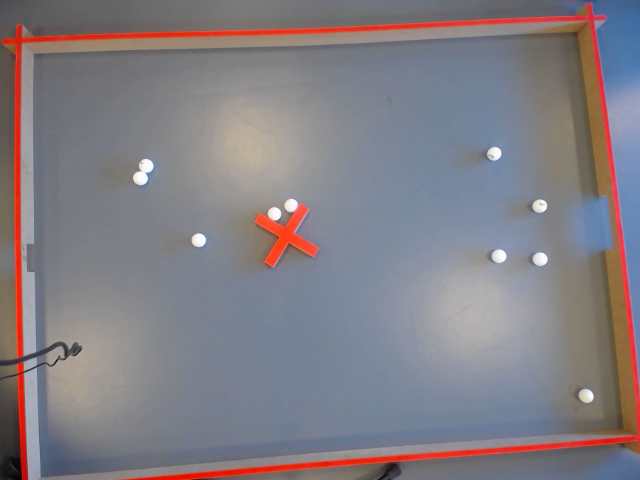
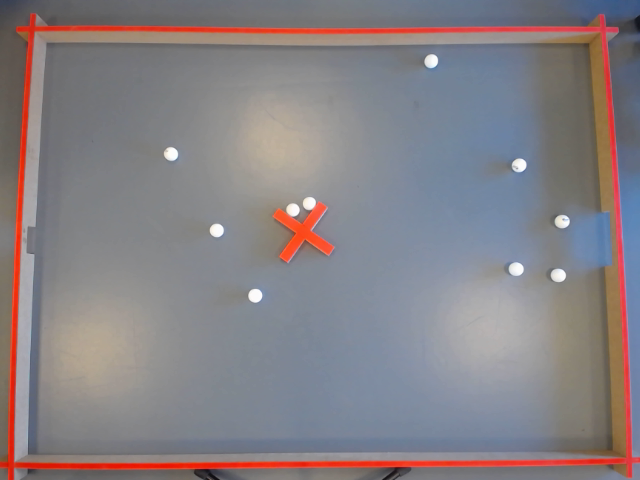
Made a script who focus on the walls

diff --git a/src/modules/opencv_static.py b/src/modules/opencv_static.py
@@ -1,67 +1,24 @@
 import cv2
 import numpy as np
 
-cap = cv2.VideoCapture(0, cv2.CAP_DSHOW)
+path = r"screenshot.png"
 
-while True:
+image = cv2.imread("screenshot.png")
 
-    ret, frame = cap.read()
-    
-    if not ret:
-        print("Failed to capture frame from webcam")
-        break
+gray = cv2.cvtColor(image, cv2.COLOR_BGR2GRAY)
 
-    gray = cv2.cvtColor(frame, cv2.COLOR_BGR2GRAY)
+cv2.imshow('image', image)
 
-    cv2.imshow("Blur", gray)
+lower_red = np.array([0, 0, 200], dtype = "uint8") 
 
-    bw = cv2.adaptiveThreshold(gray, 255, cv2.ADAPTIVE_THRESH_GAUSSIAN_C, cv2.THRESH_BINARY, 51, 10)
+upper_red= np.array([100, 100, 255], dtype = "uint8")
 
-    cv2.imshow("Bw", bw)
+mask = cv2.inRange(image, lower_red, upper_red)
 
-    circles = cv2.HoughCircles(bw, cv2.HOUGH_GRADIENT, 2, 10, param1=50, param2=30, minRadius=5, maxRadius=14)
+detected_output = cv2.bitwise_and(image, image, mask =  mask) 
 
-    print(circles)
+cv2.imshow("red color detection", detected_output) 
 
-    if circles is not None:
-        circles = np.round(circles[0, :]).astype("int")
-        for circle in circles:
+cv2.waitKey(0) 
 
-            if circle[2] < 15:
-
-                hsv = cv2.cvtColor(frame, cv2.COLOR_BGR2HSV)
-
-                cv2.imshow("hsv", hsv)
-
-                lowerOrange = np.array([0, 128, 128])
-                upperOrange = np.array([255, 200, 255])
-                maskOrange = cv2.inRange(hsv, lowerOrange, upperOrange)
-
-                lowerWhite = np.array([0, 0, 220])
-                upperWhite = np.array([255, 30, 255])
-                maskWhite = cv2.inRange(hsv, lowerWhite, upperWhite)
-
-                mask = cv2.bitwise_or(maskOrange, maskWhite)
-
-                cv2.imshow("White and orange color mask", mask)
-
-                masked = cv2.bitwise_and(frame, frame, mask=mask)
-
-                cv2.imshow("Bitwise mask", masked)
-
-                x, y, r = circle[0], circle[1], circle[2]
-
-                cropped = masked[y - r:y + r, x - r:x + r]
-                mean = cv2.mean(cropped)
-
-                if mean[2] > 50:
-                    cv2.putText(frame, str(x - r) + " " + str(y - r), (x - r, y - r - 5), cv2.FONT_HERSHEY_SIMPLEX, 0.5, (0, 255, 0))
-                    cv2.rectangle(frame, (x - r, y - r), (x + r, y + r), (0, 255, 0), 2)
-
-    cv2.imshow("Ping pong detection", frame)
-    
-    if cv2.waitKey(1) == ord('q'):
-        break
-
-cap.release()
 cv2.destroyAllWindows()
